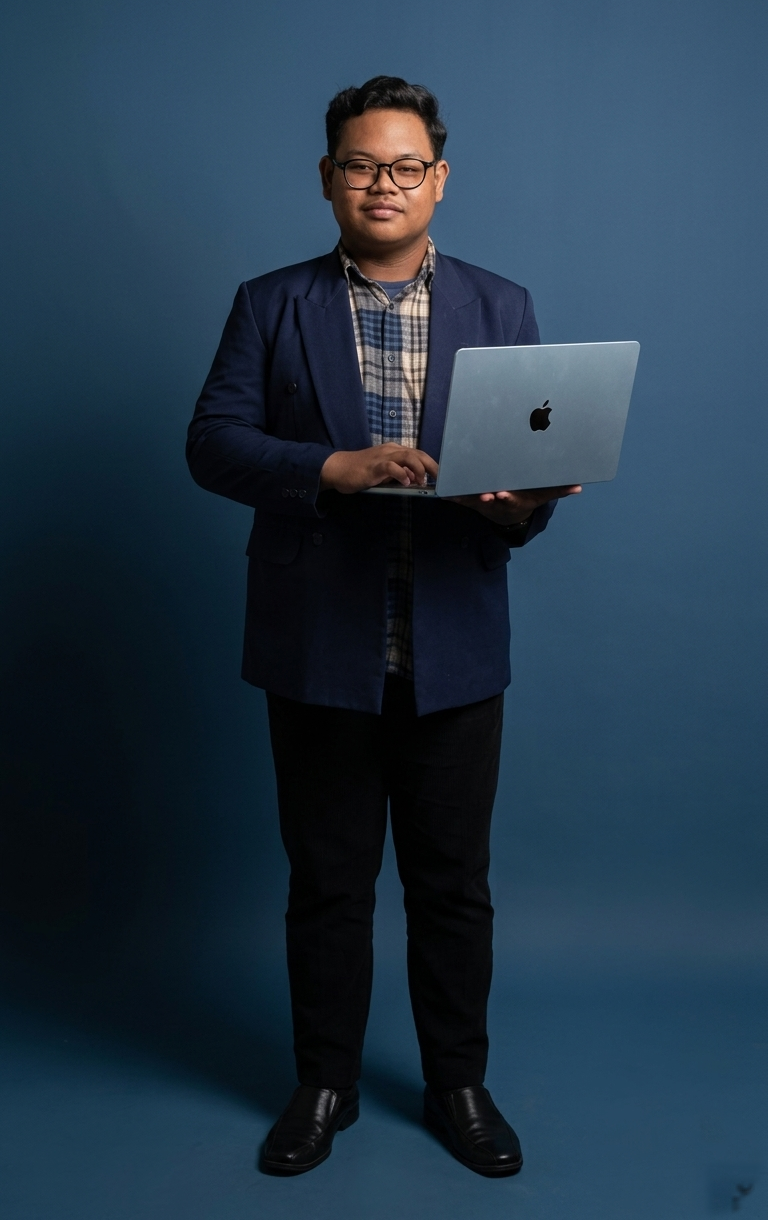
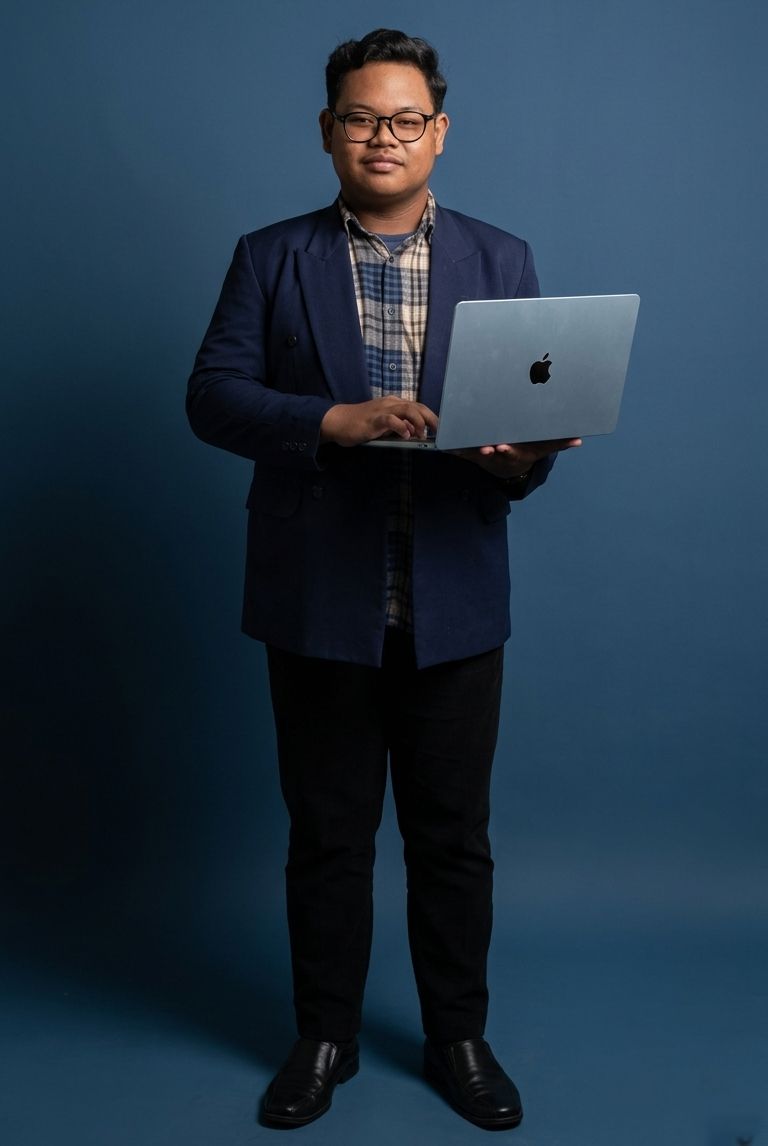
addAnggota

diff --git a/data/anggota.ts b/data/anggota.ts
@@ -27,4 +27,8 @@ export const anggotaKelas = [
     name: "Farel Z",
     image: "/assets/anggota/farelz.png",
   },
+  {
+    name: "Imal",
+    image: "/assets/anggota/imal.png",
+  },
 ];
